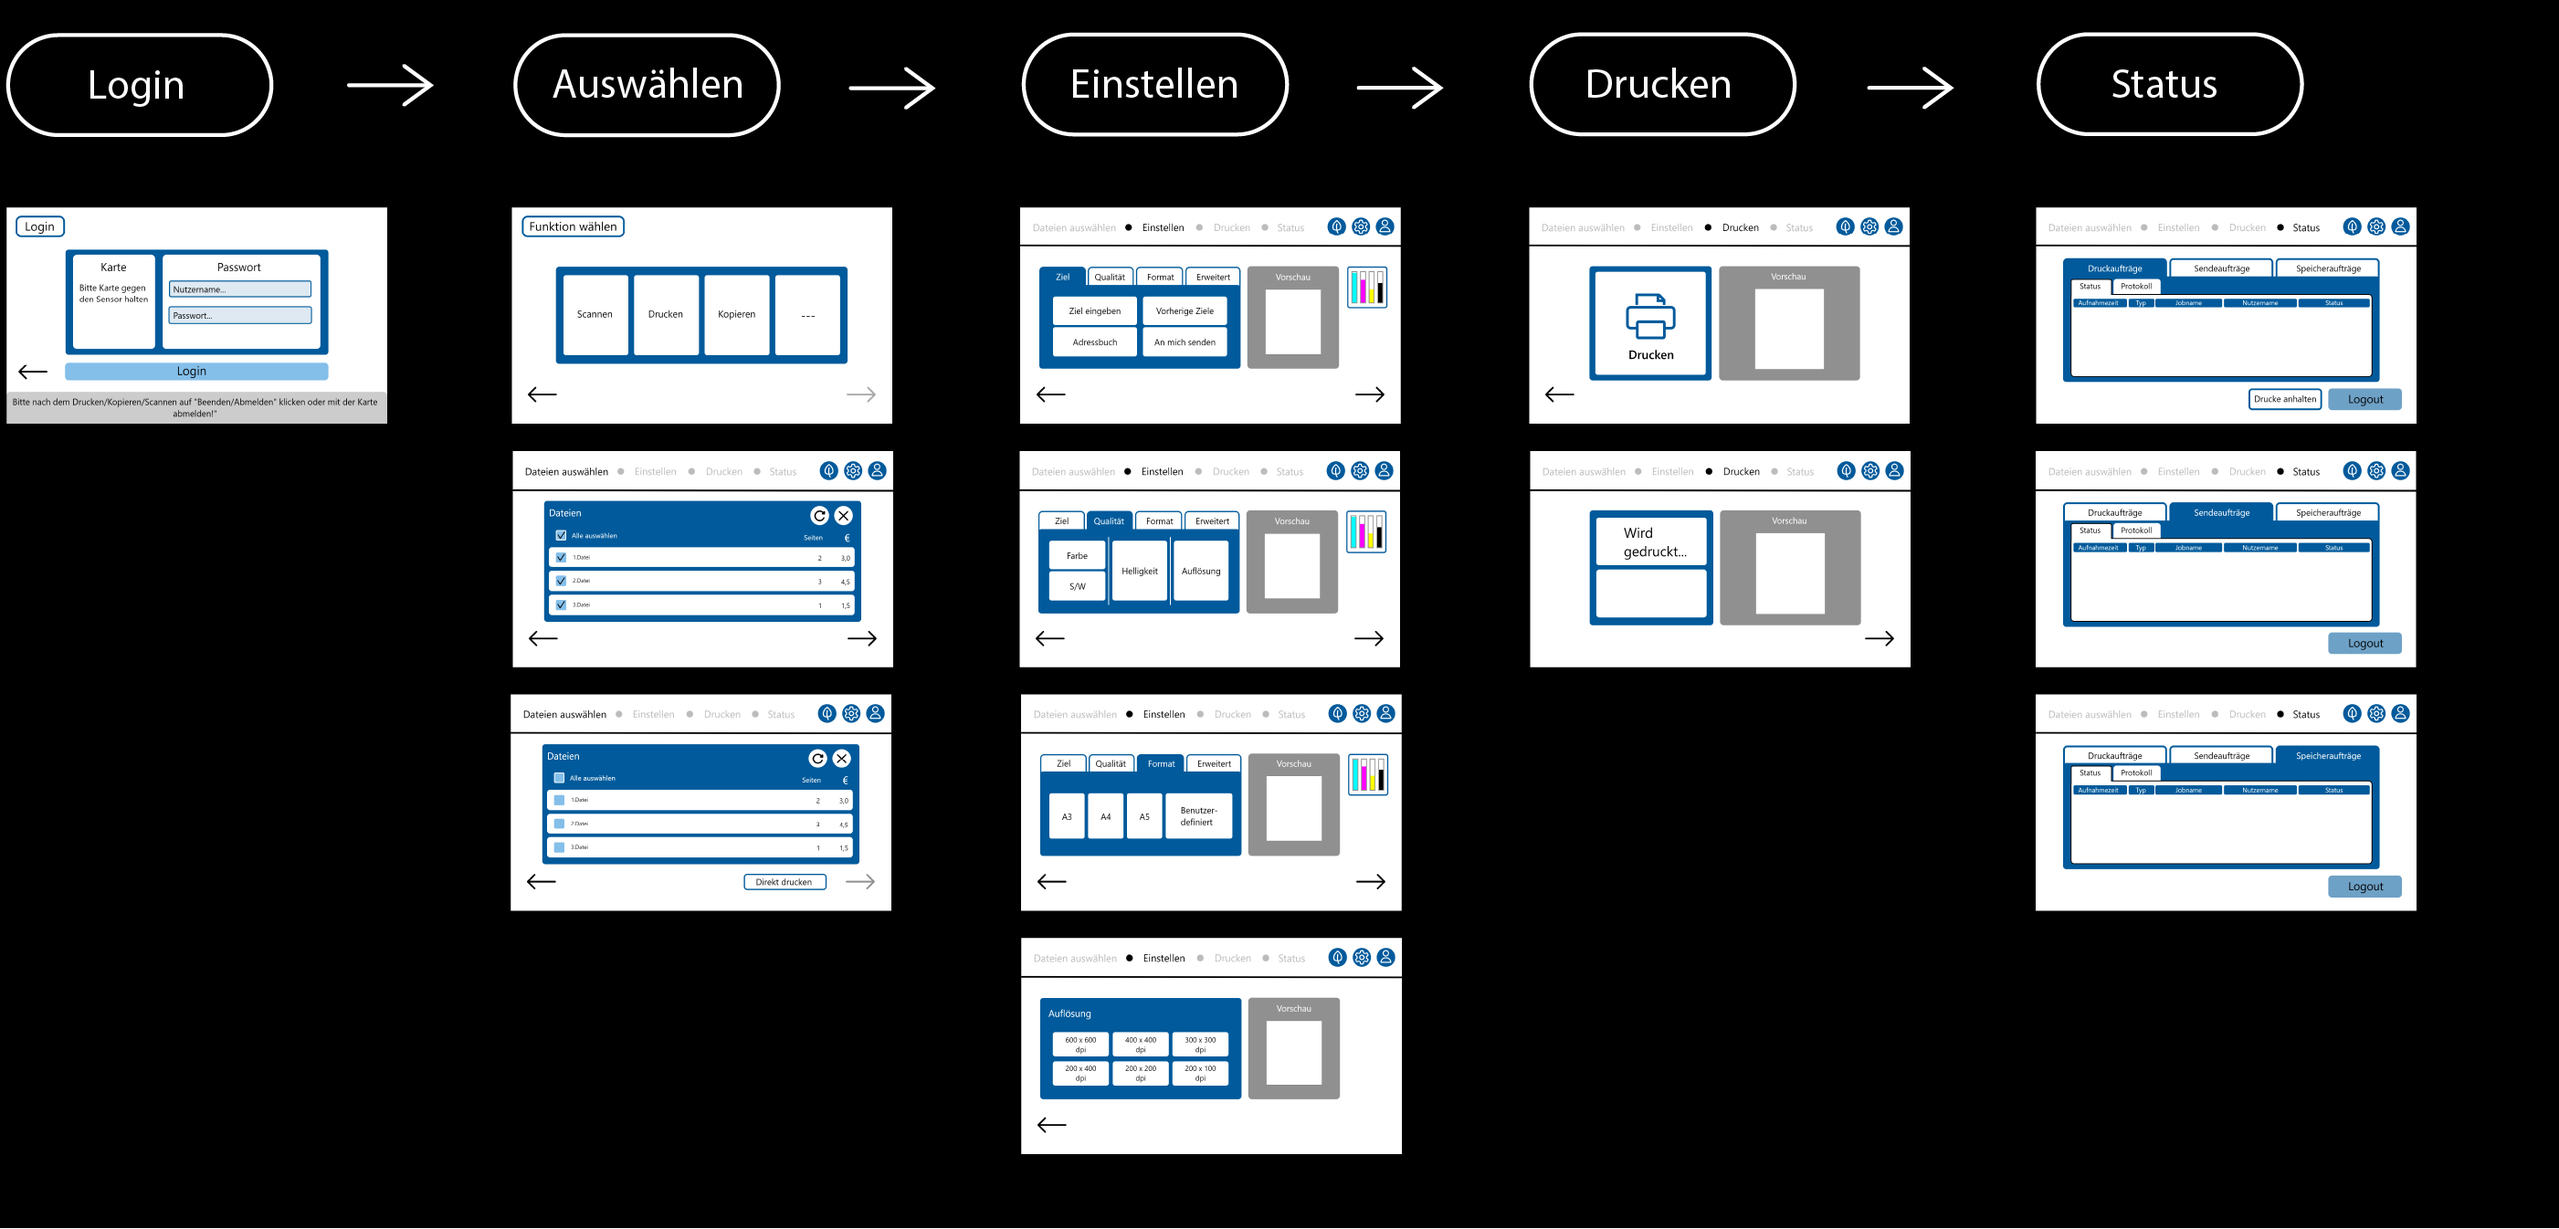
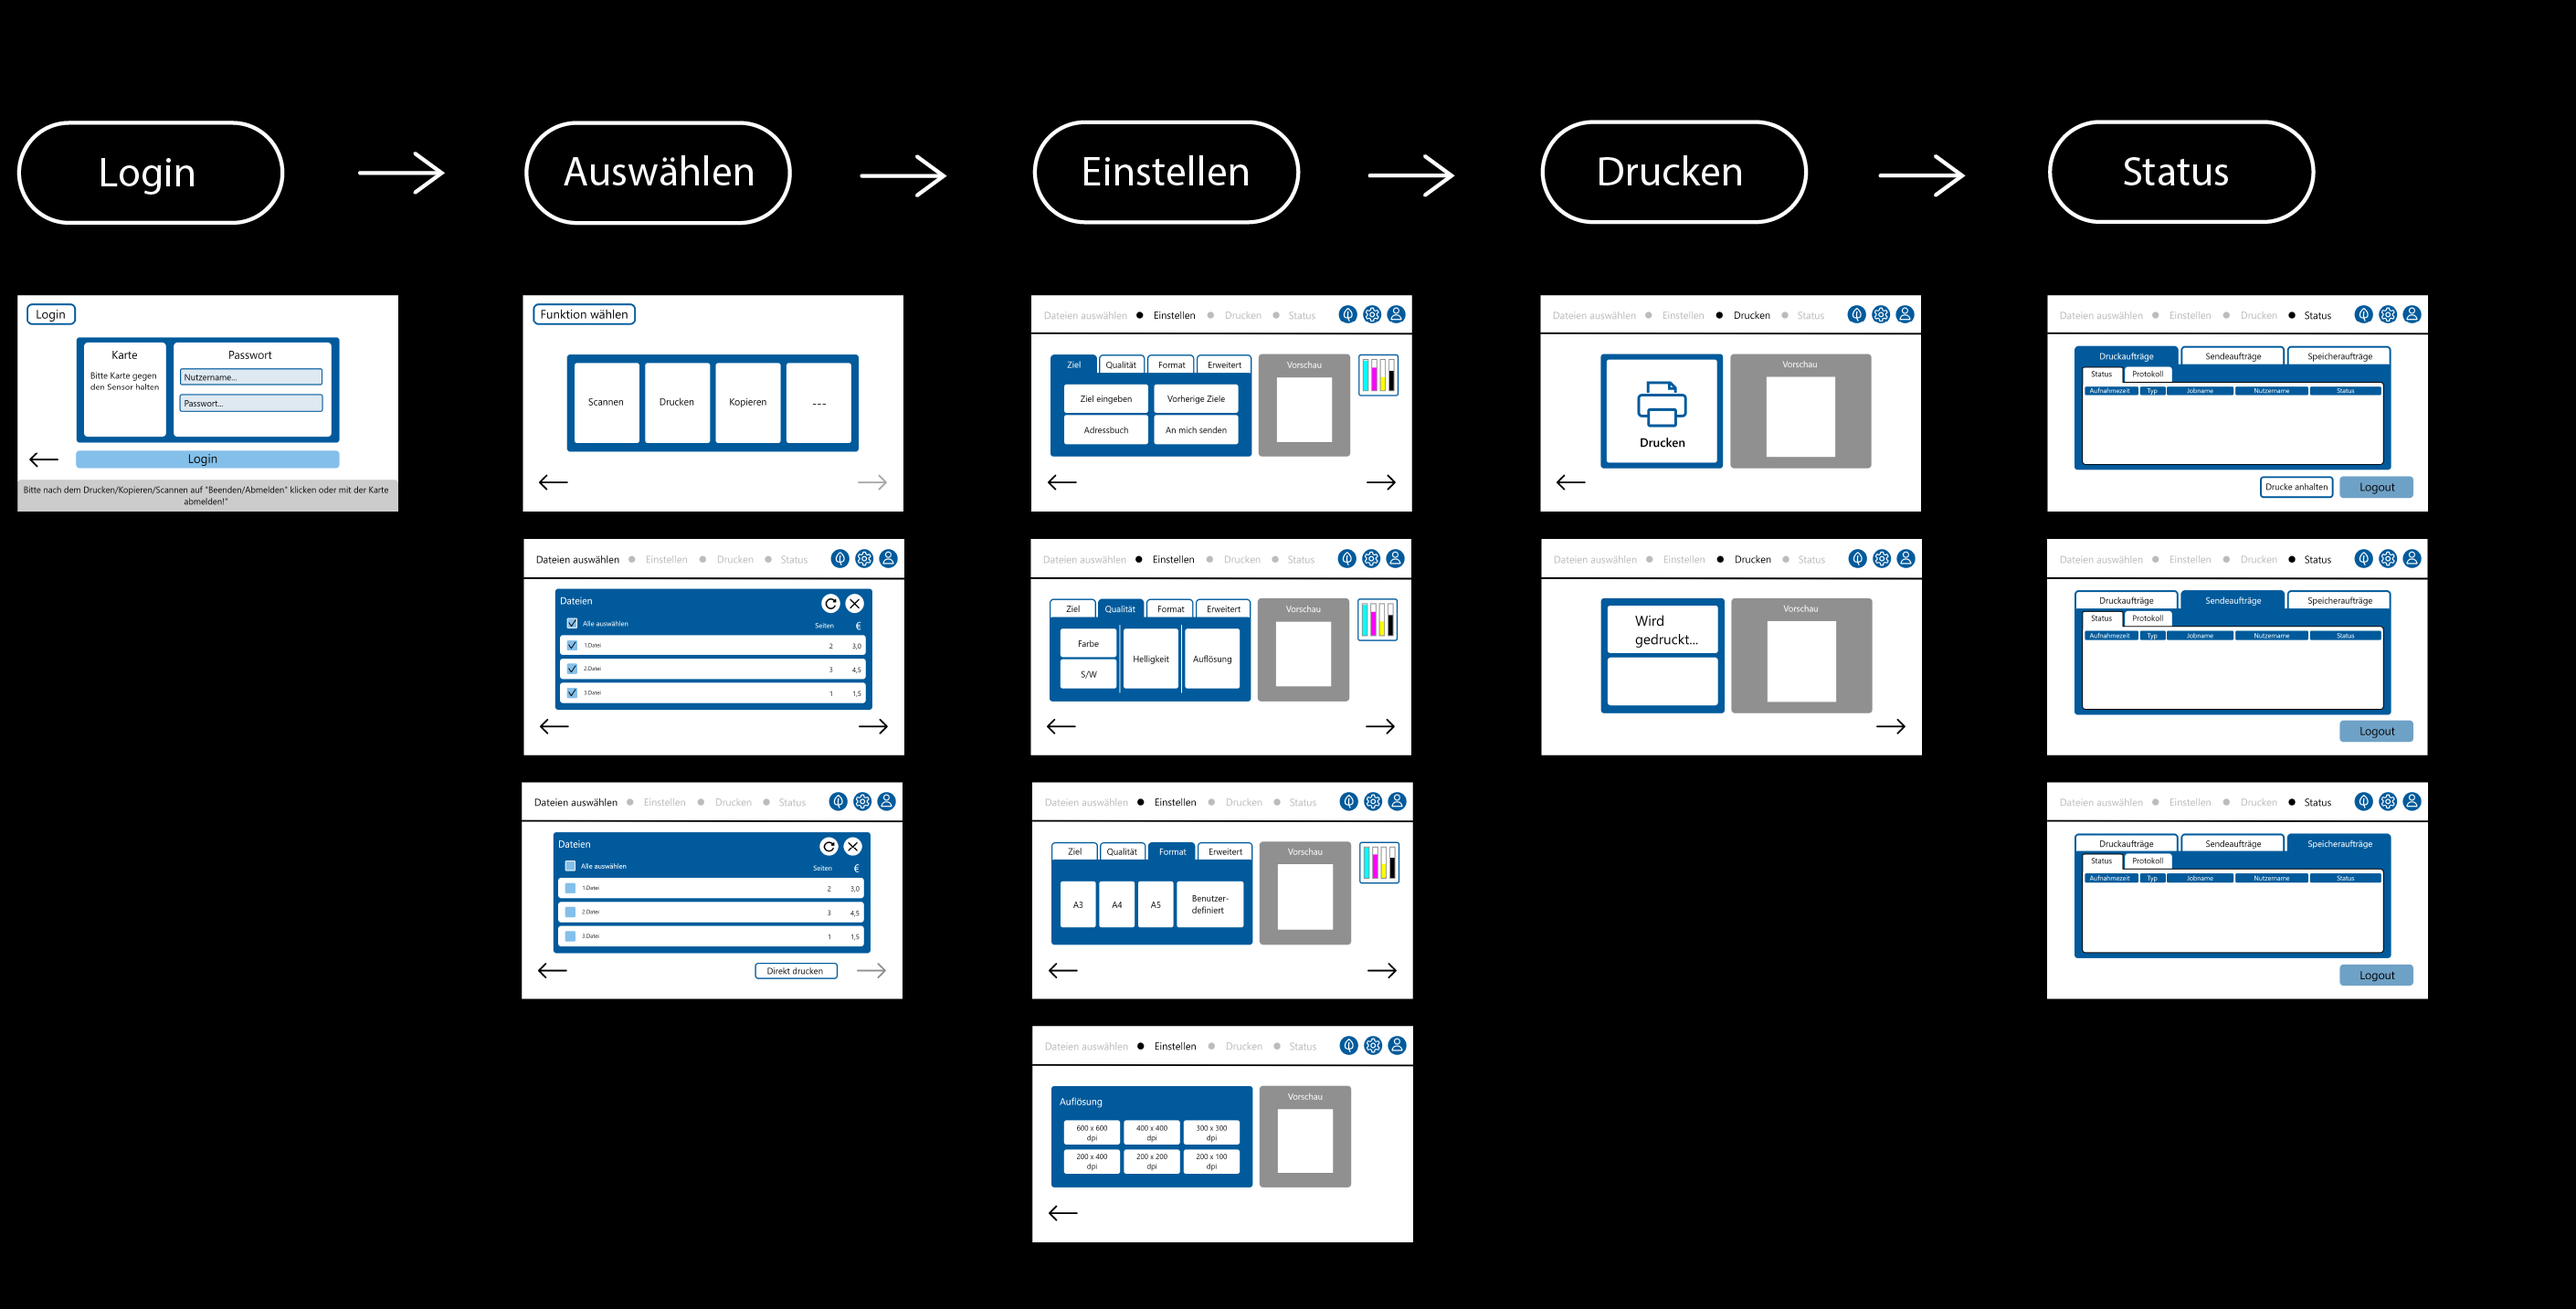
schrifrt

diff --git a/watchout.html b/watchout.html
@@ -7,6 +7,7 @@
     <title>WatchOut</title>
     <link rel="stylesheet" href="style.css">
     <link rel="stylesheet" href="specials.css">
+    <link rel="stylesheet" href="https://use.typekit.net/bta7kye.css">
     <script type="module" src="components.js"></script>
 </head>
 
@@ -18,9 +19,9 @@
             <h3 class="unterüberschrift1">Sychronized Watch & App </h3>
         </section>
         <section>
+            <h3>The Concept</h3>
             <div class="flex">
-                <div style="width: 30vw;">
-                    <h3>The Task</h3>
+                <div class="fifty">
                     <p style="margin-top: 3vh;"> Lorem ipsum dolor sit amet consectetur adipisicing elit. Nisi asperiores inventore
                         illumdignissimos quam
                         tempora animi quos voluptates possimus, voluptatem sunt vitae corporis ea sed obcaecati eligendi
@@ -29,29 +30,18 @@
                     <p> Lorem ipsum dolor sit amet consectetur adipisicing elit. Nisi asperiores inventore
                         illumdignissimos quam
                         tempora ani</p>
-                    <p style="font-size: 1.3em;"> A project by me (Sketches, App Design, Watch), Tim Ruland (Sketches,
+                    <p style="font-size: 0.9em;"> A project by me (Sketches, App Design, Watch), Tim Ruland (Sketches,
                         App Design, Watch, Video &
                         Audio) & Nicolas Weber (Sketches, App Design, Video & Audio)</p>
                 </div>
                 <img id="watchoutpic" src="assets/WatchOut/watchoutconceptbwohnering.png" alt="">
             </div>
         </section>
-        <section id="aboutMe">
-            <h3>The Products/Concept</h3>
-            <div class="flex">
-            <!-- <p style="width: 30vw;"> Lorem ipsum dolor sit amet consectetur adipisicing elit. Nisi asperiores inventore
-                    illumdignissimos quam
-                    tempora animi quos voluptates possimus, voluptatem sunt vitae corporis ea sed obcaecati eligendi
-                    aliquam
-                    debitis laudantium?</p> -->
-                <div>
-                    <img id="watchoutpic" style="margin-left: 0vw;" src="./assets/WatchOut/watchoutconceptbwohnering.png" alt="watchoutproduct">
-                </div>
-            </div>
-            <!--<div class="concept">
+        <!--<section id="aboutMe">
+            <div class="concept">
                 <div class="concepttextall">
                     <h3>The Product</h3>
-                    <p class="text">Lorem ipsum dolor sit amet, consetetur sadipscing elitr, sed diam nonumy
+                    <p class="text">Lorem i<psum dolor sit amet, consetetur sadipscing elitr, sed diam nonumy
                         eirmod
                         tempor
                         invidunt ut labore
@@ -63,8 +53,8 @@
                 <div class="conceptpic">
                     <img src="./assets/WatchOut/uhr_watch_logo_zugeschnitten.png" alt="">
                 </div>
-            </div> -->
-        </section>
+            </div> 
+        </section> -->
         <section>
             <h3> Sketches & Concepts</h3>
             <p class="text"> Lorem ipsum dolor sit amet consectetur adipisicing elit. Nisi asperiores inventore

diff --git a/style.css b/style.css
@@ -29,6 +29,10 @@ body {
     display: flex;
 }
 
+#top{
+    width: 100%;
+}
+
 .circle {
     height: 65px;
     width: 65px;
@@ -59,7 +63,7 @@ header {
     }
 
     li {
-        margin-left: 1vw;
+        margin-left: 1.5vw;
         font-size: 1.5em;
         font-weight: 600;
         float: left;
@@ -69,12 +73,12 @@ header {
     a {
         text-decoration: none;
         color: black;
-        padding: 1vw;
+        padding-right: 1vw;
     }
 
     a:hover {
         font-size: 1em;
-        font-weight: 602;
+        font-weight: 600;
         font-style: italic;
         transition: 0.3s;
         text-decoration: none;
@@ -108,15 +112,18 @@ h1 {
 
 
 h2 {
-    font-size: 12vw;
+    font-family: "snug-sharp-variable", sans-serif;
+    font-variation-settings: "wght" 370, "wdth" 400, "XHGT" 100;
+    font-size: 14vw;
     color: white;
+    margin-top: 20vh;
 }
 
 
 
 h3 {
     font-family: itc-avant-garde-gothic-pro, sans-serif;
-    font-weight: 400;
+    font-weight: 500;
     font-size: 10vw;
     width: 100%;
     background: var(--color);
@@ -128,7 +135,7 @@ h3 {
 }
 
 #unterüberschrift1 {
-    margin-top: -2vh;
+    margin-top: -3vh;
     background: white;
     background-clip: text;
     -webkit-background-clip: text;
@@ -148,7 +155,7 @@ h4 {
 }
 
 p {
-    font-size: 4vw;
+    font-size: 4.5vw;
     padding-bottom: 2vh;
 }
 
@@ -176,13 +183,16 @@ img {
 }
 
 
-/*h2,
 h3,
 h4,
 p,
 a {
-    font-family: 'Gill Sans', 'Gill Sans MT', Calibri, 'Trebuchet MS', sans-serif
-}*/
+    font-family: itc-avant-garde-gothic-pro, 'Calibri','Trebuchet MS', sans-serif;
+}
+
+p{
+    font-family: Calibri, 'Trebuchet MS', sans-serif;
+}
 
 h1,
 h2,
@@ -384,9 +394,8 @@ fotos:hover {
 
 #watchoutpic {
     height: 23vw;
-    width: 50vw;
+    width: 52vw;
     margin-left: 3vw;
-    margin-top: 3vw;
 }
 
 #picofme {
@@ -490,10 +499,10 @@ fotos:hover {
 
 button {
     border-radius: 20px;
-    border: 4px solid var(--lightgreen);
+    border: 3px solid var(--lightgreen);
     width: 10vw;
     height: 6vh;
-    margin-top: 2vh;
+    margin-top: 0.1vh;
 
     margin-right: 30px;
     background-color: black;
@@ -520,6 +529,7 @@ button {
 
 .flexx {
     display: flex;
+    height: 35vh;
     margin-top: 2vh;
 
     div {
@@ -529,15 +539,14 @@ button {
         z-index: 2;
     }
 
-    img {
-        z-index: 1;
-    }
-
     div:hover {
         border: 2px solid white;
+        width: 100%;
     }
 
 }
+
+
 
 
 /*#rightContact {

diff --git a/index.html b/index.html
@@ -26,22 +26,22 @@
     <div class="alles">
         <section id="top" style="width: 100%;">
             <h1>Portfolio</h1>
-            <h3 id="unterüberschrift1">Linda Jakob - UX Design</h3>
+            <h3 id="unterüberschrift1">Linda Jakob - UX Designer</h3>
         </section>
         <section id="aboutMe">
             <div class="flex">
                 <div>
                     <h3 style="margin-bottom: 3.5vh;">About me</h3>
-                    <p>Lorem ipsum dolor sit amet consectetur, adipisicing elit. Provident doloribus
-                        asperiores aliquid
-                        consequatur cumque quos earum, optio autem quis aliquam, rem eaque voluptatem consectetur nihil
-                        quaerat
-                        quae ration
+                    <p>Hey! Ich bin Linda, UXD-Studentin an der TH Ingolstadt. Dinge selbst zu erschaffen hat mich schon
+                        immer begeistert.
+                        Zuerst in Form von zeichnen & schreiben, dann designen und schließlich programmieren.
                     </p>
-                    <p>Kum quas ipsam eum. Id quis, magni qui non deserunt doloribus nostrum! os earum, optio
-                        autem quis aliquam, rem eaque voluptatem consectetur nihil quaerat.
-                        Kum quas ipsam eum. Id quis, magni qui non consectetur nihil quaerat.
-                        Kum quas ipsam eum. Id quis, magni qui non</p>
+                    <p>In meiner Freizeit bin ich entweder damit beschäftigt, noch länger als der durchschnittliche
+                        Mensch mein Abendessen zu
+                        planen oder Werbeplakate zu kritisieren. Wenn ich mich dann davon erholen möchte, koche ich
+                        besagtes Essen und zeichne.
+                    </p>
+                    <p>Für mehr Infos über meine Fähigkeiten etc. hier mein Lebenslauf:</p>
                     <button>CV deutsch</button>
                     <button>CV english</button>
                 </div>

diff --git a/printer.html b/printer.html
@@ -7,6 +7,7 @@
     <title>Printer Re-Design</title>
     <link rel="stylesheet" href="style.css">
     <link rel="stylesheet" href="specials.css">
+    <link rel="stylesheet" href="https://use.typekit.net/bta7kye.css">
     <script type="module" src="components.js"></script>
 </head>
 
@@ -14,8 +15,7 @@
     <header-class></header-class>
     <div class="alles">
         <section id="top">
-            <h2>Printer</h2>
-            <h2 style="margin-top: -4vh;">Re-Design</h2>
+            <h2>Printer Re-Design</h2>
             <h3 class="unterüberschrift1">Screendesign</h3>
         </section>
         <section id="aboutMe">
@@ -23,7 +23,7 @@
             <div class="flex">
                 <div class="fifty">
                     <h3>The Task</h3>
-                    <p style="margin-bottom: 5vh;">Lorem ipsum dolor sit amet, consetetur sadipscing elitr, sed diam
+                    <p style="margin-bottom: 5vw;">Lorem ipsum dolor sit amet, consetetur sadipscing elitr, sed diam
                         nonumy eirmod tempor invidunt ut labore et dolore
                         magna aliquyam erat, sed diam voluptua. At vero eos et accusam et justo duo dolores et ea rebum.
                         Stet clita kasd
@@ -40,13 +40,14 @@
         </section>
         <section>
             <h3>The Concept</h3>
-            <div style="width: 1382px; height: 650px;">
-                <img src="assets/Uni/Sem2/Linda_Screendesign/druckerconcept.png" alt="">
+            <div>
+                <img class="druckerpics" src="assets/Uni/Sem2/Linda_Screendesign/druckerconcept.png" alt="">
             </div>
         </section>
         <section>
             <h3>Fails</h3>
-                <img class="druckerpics" src="assets/Uni/Sem2/Linda_Screendesign/druckerexpfarben.png" alt="">
+            <img class="druckerpics" style="margin-top: -0%;"
+                src="assets/Uni/Sem2/Linda_Screendesign/druckerexpfarben.png" alt="">
         </section>
         <section>
             <h3>Styleguide</h3>

diff --git a/fotografie.html b/fotografie.html
@@ -7,6 +7,7 @@
     <title>Fotografie</title>
     <link rel="stylesheet" href="style.css">
     <link rel="stylesheet" href="specials.css">
+    <link rel="stylesheet" href="https://use.typekit.net/bta7kye.css">
     <script type="module" src="components.js"></script>
 </head>
 
@@ -58,12 +59,12 @@
         <section style="padding-top: 15vh; width: 100%;">
             <div class="fotoContainer">
                 <!--<img src="assets/Fotografie/fotos-big.png" alt=""> -->
-                <div class="flexx" style="height: 35vh;">
+                <div class="flexx"">
                     <div style="width: 20%; ">
                         <img src="assets/Fotografie/treppen.JPG" alt="">
                     </div>
                     <div style="width: 35%; ">
-                        <img src="assets/Fotografie/fahrrad.JPG" alt="">
+                        <img id="special" src="assets/Fotografie/fahrrad.JPG" alt="">
                     </div>
                     <div style="width: 20%;">
                         <img src="assets/Fotografie/äste.JPG" alt="">
@@ -72,7 +73,7 @@
                         <img src="assets/Fotografie/vitrine.JPG" alt="">
                     </div>
                 </div>
-                <div class="flexx" style="height:32vh; margin-top:2vh">
+                <div class="flexx" style="height:32vh;">
                     <div style="width: 35%;">
                         <img src="assets/Fotografie/autospiegelung.JPG" alt="">
                     </div>

diff --git a/specials.css b/specials.css
@@ -1,9 +1,6 @@
 @media screen and (min-width:940px) {
  
 
-    h2 {
-        font-size: 8em;
-    }
     .unterüberschrift1 {
         font-size: 4em;
     }
@@ -23,6 +20,27 @@
         width: 100%;
     }
 
+    .flex {
+        display: block;
+    }
+
+    .fifty{
+        width: 100%;
+    }
+
+    #watchoutpic {
+        width: 60vw;
+        height: 30vw;
+        margin-left: 0;
+    }
+
+    section{
+        padding-top: 14vh;
+    }
+
+    .roundbeginnpic{
+        visibility: hidden;
+    }
 }
 
 @media  screen and (max-width: 1400px) {
@@ -33,7 +51,7 @@
 
 @media screen and (min-width:640px) {
     p {
-        font-size: 1.5em;
+        font-size: 1.6em;
     }
 
     h3 {

diff --git a/icons.html b/icons.html
@@ -7,6 +7,7 @@
     <title>Nachhaltigkeitsicons</title>
     <link rel="stylesheet" href="style.css">
     <link rel="stylesheet" href="specials.css">
+    <link rel="stylesheet" href="https://use.typekit.net/bta7kye.css">
     <script type="module" src="components.js"></script>
 </head>
 
